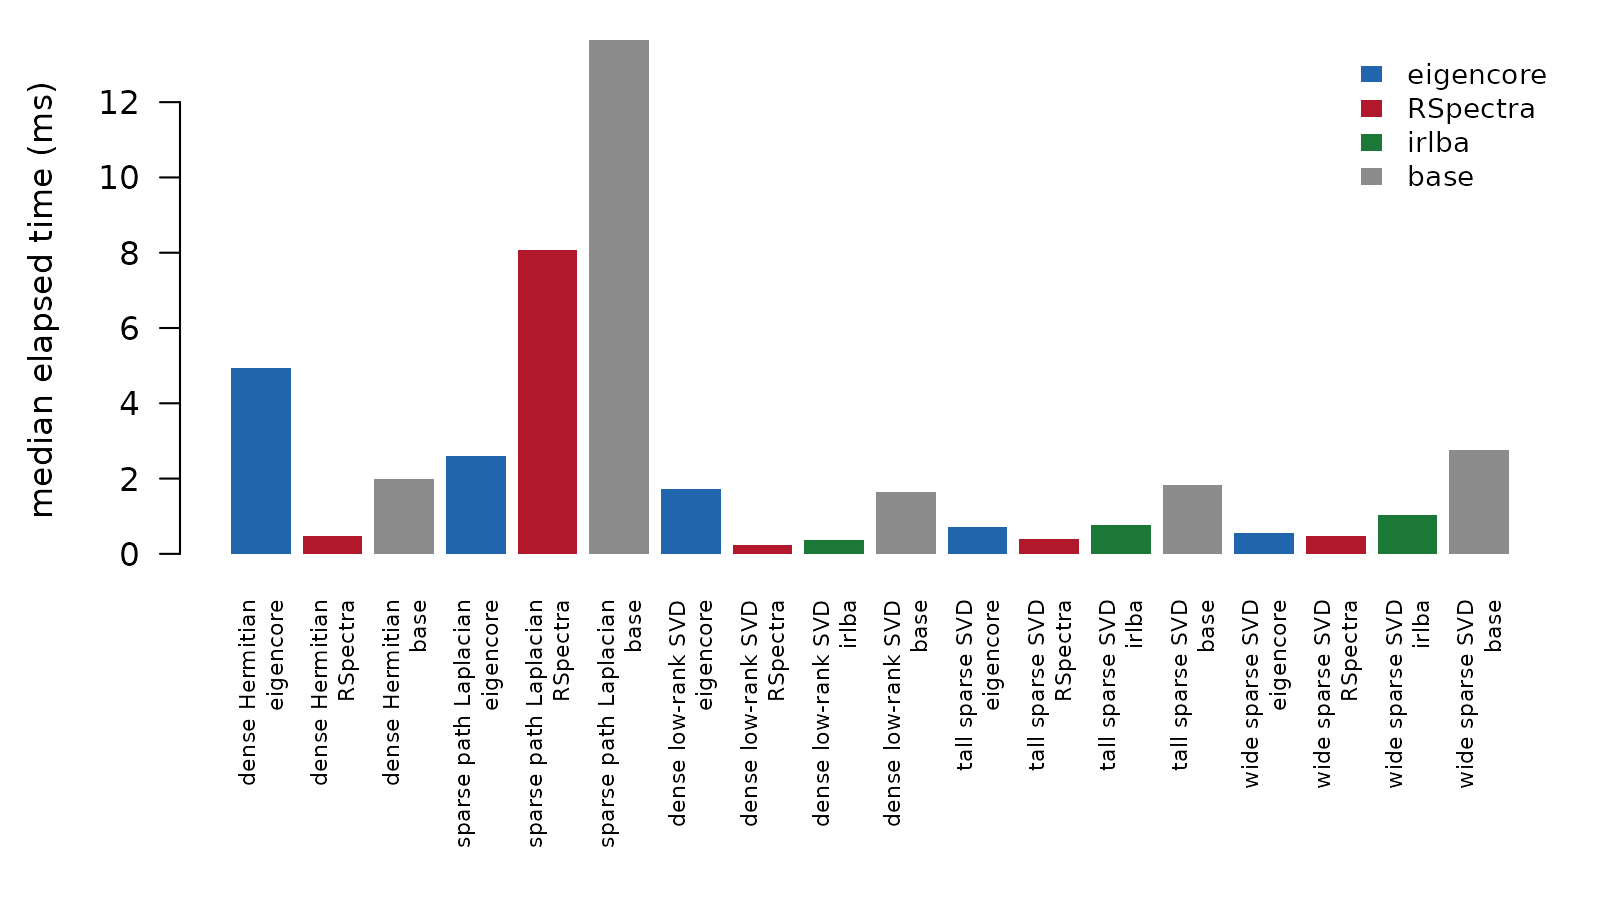
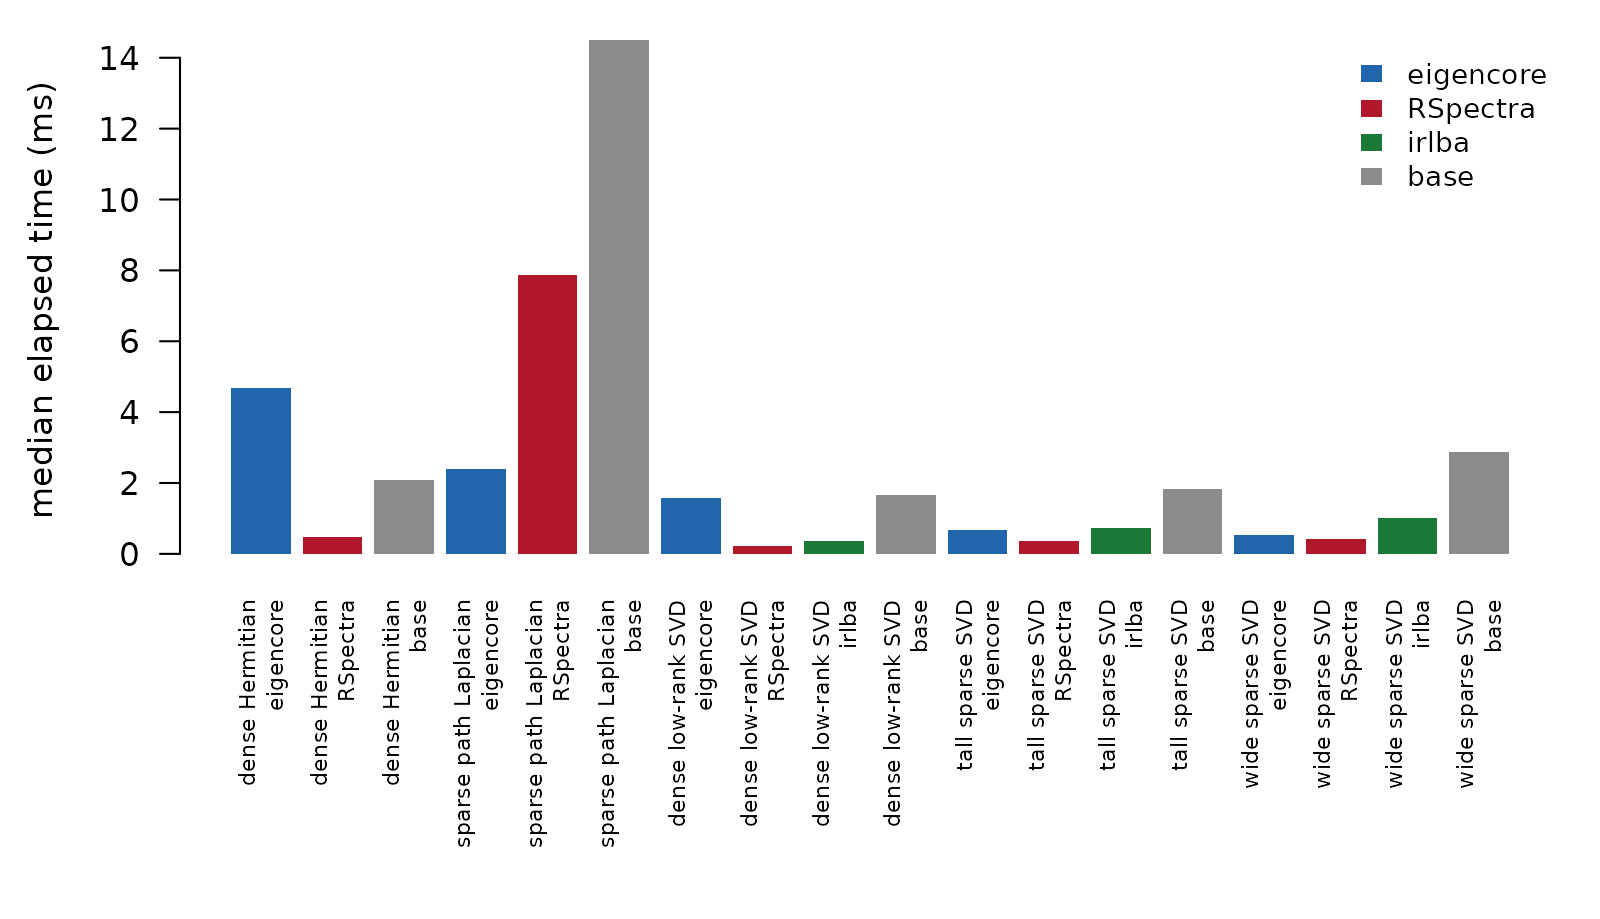
Deploying to gh-pages from @ bbuchsbaum/eigencore@a2f72bca46a0554d44cbb6fbf8e631fc1e160a18 🚀

diff --git a/articles/benchmarks.html b/articles/benchmarks.html
@@ -207,7 +207,7 @@ boundary are different claims even if their values agree.</p>
 <td align="left">dense Hermitian</td>
 <td align="left">eigen</td>
 <td align="left">eigencore</td>
-<td align="right">4.9250</td>
+<td align="right">4.6920</td>
 <td align="right">1.06700</td>
 <td align="right">0</td>
 <td align="right">0</td>
@@ -219,7 +219,7 @@ boundary are different claims even if their values agree.</p>
 <td align="left">dense Hermitian</td>
 <td align="left">eigen</td>
 <td align="left">RSpectra</td>
-<td align="right">0.4733</td>
+<td align="right">0.4705</td>
 <td align="right">0.06661</td>
 <td align="right">0</td>
 <td align="right">0</td>
@@ -231,7 +231,7 @@ boundary are different claims even if their values agree.</p>
 <td align="left">dense Hermitian</td>
 <td align="left">eigen</td>
 <td align="left">base</td>
-<td align="right">2.0020</td>
+<td align="right">2.0850</td>
 <td align="right">0.42400</td>
 <td align="right">0</td>
 <td align="right">0</td>
@@ -243,7 +243,7 @@ boundary are different claims even if their values agree.</p>
 <td align="left">sparse path Laplacian</td>
 <td align="left">eigen</td>
 <td align="left">eigencore</td>
-<td align="right">2.6120</td>
+<td align="right">2.3920</td>
 <td align="right">1.83600</td>
 <td align="right">0</td>
 <td align="right">0</td>
@@ -256,7 +256,7 @@ Lanczos)</td>
 <td align="left">sparse path Laplacian</td>
 <td align="left">eigen</td>
 <td align="left">RSpectra</td>
-<td align="right">8.0810</td>
+<td align="right">7.8570</td>
 <td align="right">0.01991</td>
 <td align="right">0</td>
 <td align="right">0</td>
@@ -268,7 +268,7 @@ Lanczos)</td>
 <td align="left">sparse path Laplacian</td>
 <td align="left">eigen</td>
 <td align="left">base</td>
-<td align="right">13.6500</td>
+<td align="right">14.5000</td>
 <td align="right">3.18800</td>
 <td align="right">0</td>
 <td align="right">0</td>
@@ -280,7 +280,7 @@ Lanczos)</td>
 <td align="left">dense low-rank SVD</td>
 <td align="left">SVD</td>
 <td align="left">eigencore</td>
-<td align="right">1.7230</td>
+<td align="right">1.5890</td>
 <td align="right">1.30600</td>
 <td align="right">0</td>
 <td align="right">0</td>
@@ -292,7 +292,7 @@ Lanczos)</td>
 <td align="left">dense low-rank SVD</td>
 <td align="left">SVD</td>
 <td align="left">RSpectra</td>
-<td align="right">0.2304</td>
+<td align="right">0.2222</td>
 <td align="right">0.09405</td>
 <td align="right">0</td>
 <td align="right">0</td>
@@ -304,7 +304,7 @@ Lanczos)</td>
 <td align="left">dense low-rank SVD</td>
 <td align="left">SVD</td>
 <td align="left">irlba</td>
-<td align="right">0.3798</td>
+<td align="right">0.3680</td>
 <td align="right">0.56060</td>
 <td align="right">0</td>
 <td align="right">0</td>
@@ -328,7 +328,7 @@ Lanczos)</td>
 <td align="left">tall sparse SVD</td>
 <td align="left">SVD</td>
 <td align="left">eigencore</td>
-<td align="right">0.7085</td>
+<td align="right">0.6838</td>
 <td align="right">0.01904</td>
 <td align="right">0</td>
 <td align="right">0</td>
@@ -340,7 +340,7 @@ Lanczos)</td>
 <td align="left">tall sparse SVD</td>
 <td align="left">SVD</td>
 <td align="left">RSpectra</td>
-<td align="right">0.3916</td>
+<td align="right">0.3542</td>
 <td align="right">0.02502</td>
 <td align="right">0</td>
 <td align="right">0</td>
@@ -352,7 +352,7 @@ Lanczos)</td>
 <td align="left">tall sparse SVD</td>
 <td align="left">SVD</td>
 <td align="left">irlba</td>
-<td align="right">0.7723</td>
+<td align="right">0.7333</td>
 <td align="right">0.17600</td>
 <td align="right">0</td>
 <td align="right">0</td>
@@ -364,7 +364,7 @@ Lanczos)</td>
 <td align="left">tall sparse SVD</td>
 <td align="left">SVD</td>
 <td align="left">base</td>
-<td align="right">1.8350</td>
+<td align="right">1.8440</td>
 <td align="right">0.89790</td>
 <td align="right">0</td>
 <td align="right">0</td>
@@ -376,7 +376,7 @@ Lanczos)</td>
 <td align="left">wide sparse SVD</td>
 <td align="left">SVD</td>
 <td align="left">eigencore</td>
-<td align="right">0.5525</td>
+<td align="right">0.5341</td>
 <td align="right">0.02358</td>
 <td align="right">0</td>
 <td align="right">0</td>
@@ -388,7 +388,7 @@ Lanczos)</td>
 <td align="left">wide sparse SVD</td>
 <td align="left">SVD</td>
 <td align="left">RSpectra</td>
-<td align="right">0.4707</td>
+<td align="right">0.4172</td>
 <td align="right">0.02246</td>
 <td align="right">0</td>
 <td align="right">0</td>
@@ -400,7 +400,7 @@ Lanczos)</td>
 <td align="left">wide sparse SVD</td>
 <td align="left">SVD</td>
 <td align="left">irlba</td>
-<td align="right">1.0410</td>
+<td align="right">0.9988</td>
 <td align="right">0.15420</td>
 <td align="right">0</td>
 <td align="right">0</td>
@@ -412,7 +412,7 @@ Lanczos)</td>
 <td align="left">wide sparse SVD</td>
 <td align="left">SVD</td>
 <td align="left">base</td>
-<td align="right">2.7570</td>
+<td align="right">2.8720</td>
 <td align="right">0.90980</td>
 <td align="right">0</td>
 <td align="right">0</td>

diff --git a/articles/benchmarks.md b/articles/benchmarks.md
@@ -76,24 +76,24 @@ boundary are different claims even if their values agree.
 
 | regime | task | method | median_ms | mem_mb | rel_error | backward_error | residual_check | eigencore_label | status |
 |:---|:---|:---|---:|---:|---:|---:|:---|:---|:---|
-| dense Hermitian | eigen | eigencore | 4.9250 | 1.06700 | 0 | 0 | TRUE | native dense Hermitian LAPACK fallback | ok |
-| dense Hermitian | eigen | RSpectra | 0.4733 | 0.06661 | 0 | 0 | TRUE | NA | ok |
-| dense Hermitian | eigen | base | 2.0020 | 0.42400 | 0 | 0 | TRUE | NA | ok |
-| sparse path Laplacian | eigen | eigencore | 2.6120 | 1.83600 | 0 | 0 | TRUE | native tridiagonal Hermitian shift-invert (factorized Lanczos) | ok |
-| sparse path Laplacian | eigen | RSpectra | 8.0810 | 0.01991 | 0 | 0 | TRUE | NA | ok |
-| sparse path Laplacian | eigen | base | 13.6500 | 3.18800 | 0 | 0 | TRUE | NA | ok |
-| dense low-rank SVD | SVD | eigencore | 1.7230 | 1.30600 | 0 | 0 | TRUE | native certified Gram SVD special case | ok |
-| dense low-rank SVD | SVD | RSpectra | 0.2304 | 0.09405 | 0 | 0 | TRUE | NA | ok |
-| dense low-rank SVD | SVD | irlba | 0.3798 | 0.56060 | 0 | 0 | TRUE | NA | ok |
+| dense Hermitian | eigen | eigencore | 4.6920 | 1.06700 | 0 | 0 | TRUE | native dense Hermitian LAPACK fallback | ok |
+| dense Hermitian | eigen | RSpectra | 0.4705 | 0.06661 | 0 | 0 | TRUE | NA | ok |
+| dense Hermitian | eigen | base | 2.0850 | 0.42400 | 0 | 0 | TRUE | NA | ok |
+| sparse path Laplacian | eigen | eigencore | 2.3920 | 1.83600 | 0 | 0 | TRUE | native tridiagonal Hermitian shift-invert (factorized Lanczos) | ok |
+| sparse path Laplacian | eigen | RSpectra | 7.8570 | 0.01991 | 0 | 0 | TRUE | NA | ok |
+| sparse path Laplacian | eigen | base | 14.5000 | 3.18800 | 0 | 0 | TRUE | NA | ok |
+| dense low-rank SVD | SVD | eigencore | 1.5890 | 1.30600 | 0 | 0 | TRUE | native certified Gram SVD special case | ok |
+| dense low-rank SVD | SVD | RSpectra | 0.2222 | 0.09405 | 0 | 0 | TRUE | NA | ok |
+| dense low-rank SVD | SVD | irlba | 0.3680 | 0.56060 | 0 | 0 | TRUE | NA | ok |
 | dense low-rank SVD | SVD | base | 1.6530 | 0.59420 | 0 | 0 | TRUE | NA | ok |
-| tall sparse SVD | SVD | eigencore | 0.7085 | 0.01904 | 0 | 0 | TRUE | native certified Gram SVD special case | ok |
-| tall sparse SVD | SVD | RSpectra | 0.3916 | 0.02502 | 0 | 0 | TRUE | NA | ok |
-| tall sparse SVD | SVD | irlba | 0.7723 | 0.17600 | 0 | 0 | TRUE | NA | ok |
-| tall sparse SVD | SVD | base | 1.8350 | 0.89790 | 0 | 0 | TRUE | NA | ok |
-| wide sparse SVD | SVD | eigencore | 0.5525 | 0.02358 | 0 | 0 | TRUE | native certified Gram SVD special case | ok |
-| wide sparse SVD | SVD | RSpectra | 0.4707 | 0.02246 | 0 | 0 | TRUE | NA | ok |
-| wide sparse SVD | SVD | irlba | 1.0410 | 0.15420 | 0 | 0 | TRUE | NA | ok |
-| wide sparse SVD | SVD | base | 2.7570 | 0.90980 | 0 | 0 | TRUE | NA | ok |
+| tall sparse SVD | SVD | eigencore | 0.6838 | 0.01904 | 0 | 0 | TRUE | native certified Gram SVD special case | ok |
+| tall sparse SVD | SVD | RSpectra | 0.3542 | 0.02502 | 0 | 0 | TRUE | NA | ok |
+| tall sparse SVD | SVD | irlba | 0.7333 | 0.17600 | 0 | 0 | TRUE | NA | ok |
+| tall sparse SVD | SVD | base | 1.8440 | 0.89790 | 0 | 0 | TRUE | NA | ok |
+| wide sparse SVD | SVD | eigencore | 0.5341 | 0.02358 | 0 | 0 | TRUE | native certified Gram SVD special case | ok |
+| wide sparse SVD | SVD | RSpectra | 0.4172 | 0.02246 | 0 | 0 | TRUE | NA | ok |
+| wide sparse SVD | SVD | irlba | 0.9988 | 0.15420 | 0 | 0 | TRUE | NA | ok |
+| wide sparse SVD | SVD | base | 2.8720 | 0.90980 | 0 | 0 | TRUE | NA | ok |
 
 Smoke benchmark rows with 3 iterations per method. {.table
 style="width:100%;"}